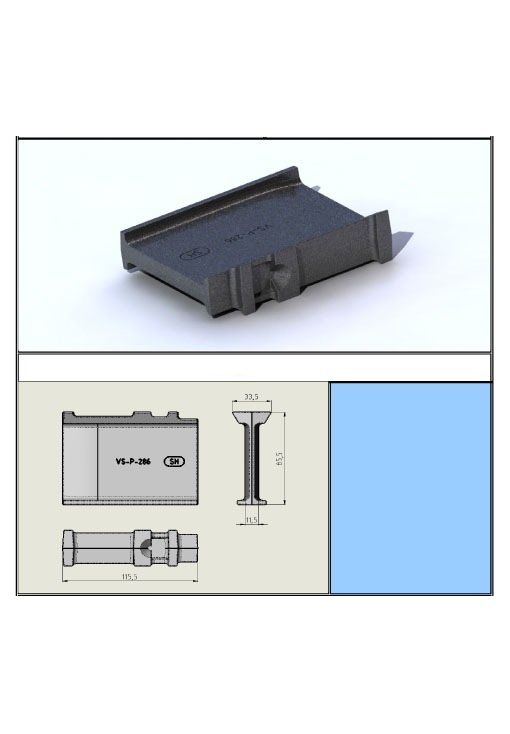
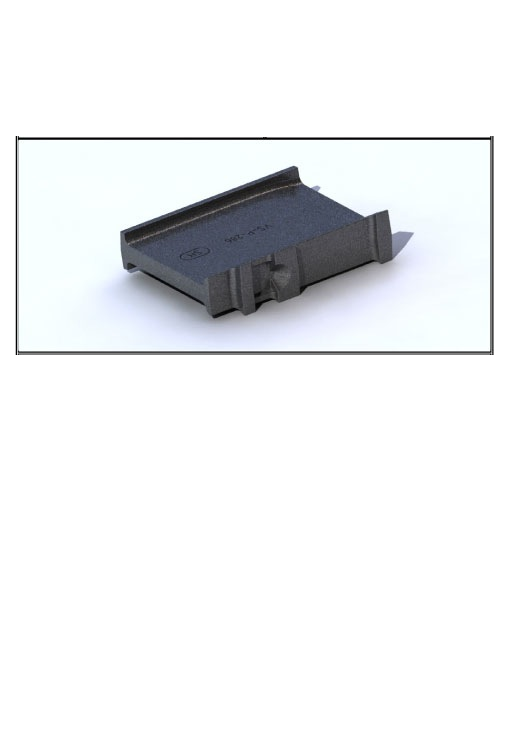
поменял картинку

Changed region(s): [[0.0294, 0.4796, 0.9706, 0.8093]]

diff --git a/template-products-3column-fullpage.html b/template-products-3column-fullpage.html
@@ -145,7 +145,7 @@
             <ul class="thumbnails">
               <li class="span4">
                 <div class="thumbnail">
-                  <img alt="" src="img/img22.png">
+                  <img alt="" src="img/img33.png">
                   <div class="caption">
                     <h3>Thumbnail label</h3>
                     <p>Cras justo odio, dapibus ac facilisis in, egestas eget quam. Donec id elit non mi porta gravida at eget metus. Nullam id dolor id nibh ultricies vehicula ut id elit.</p>
